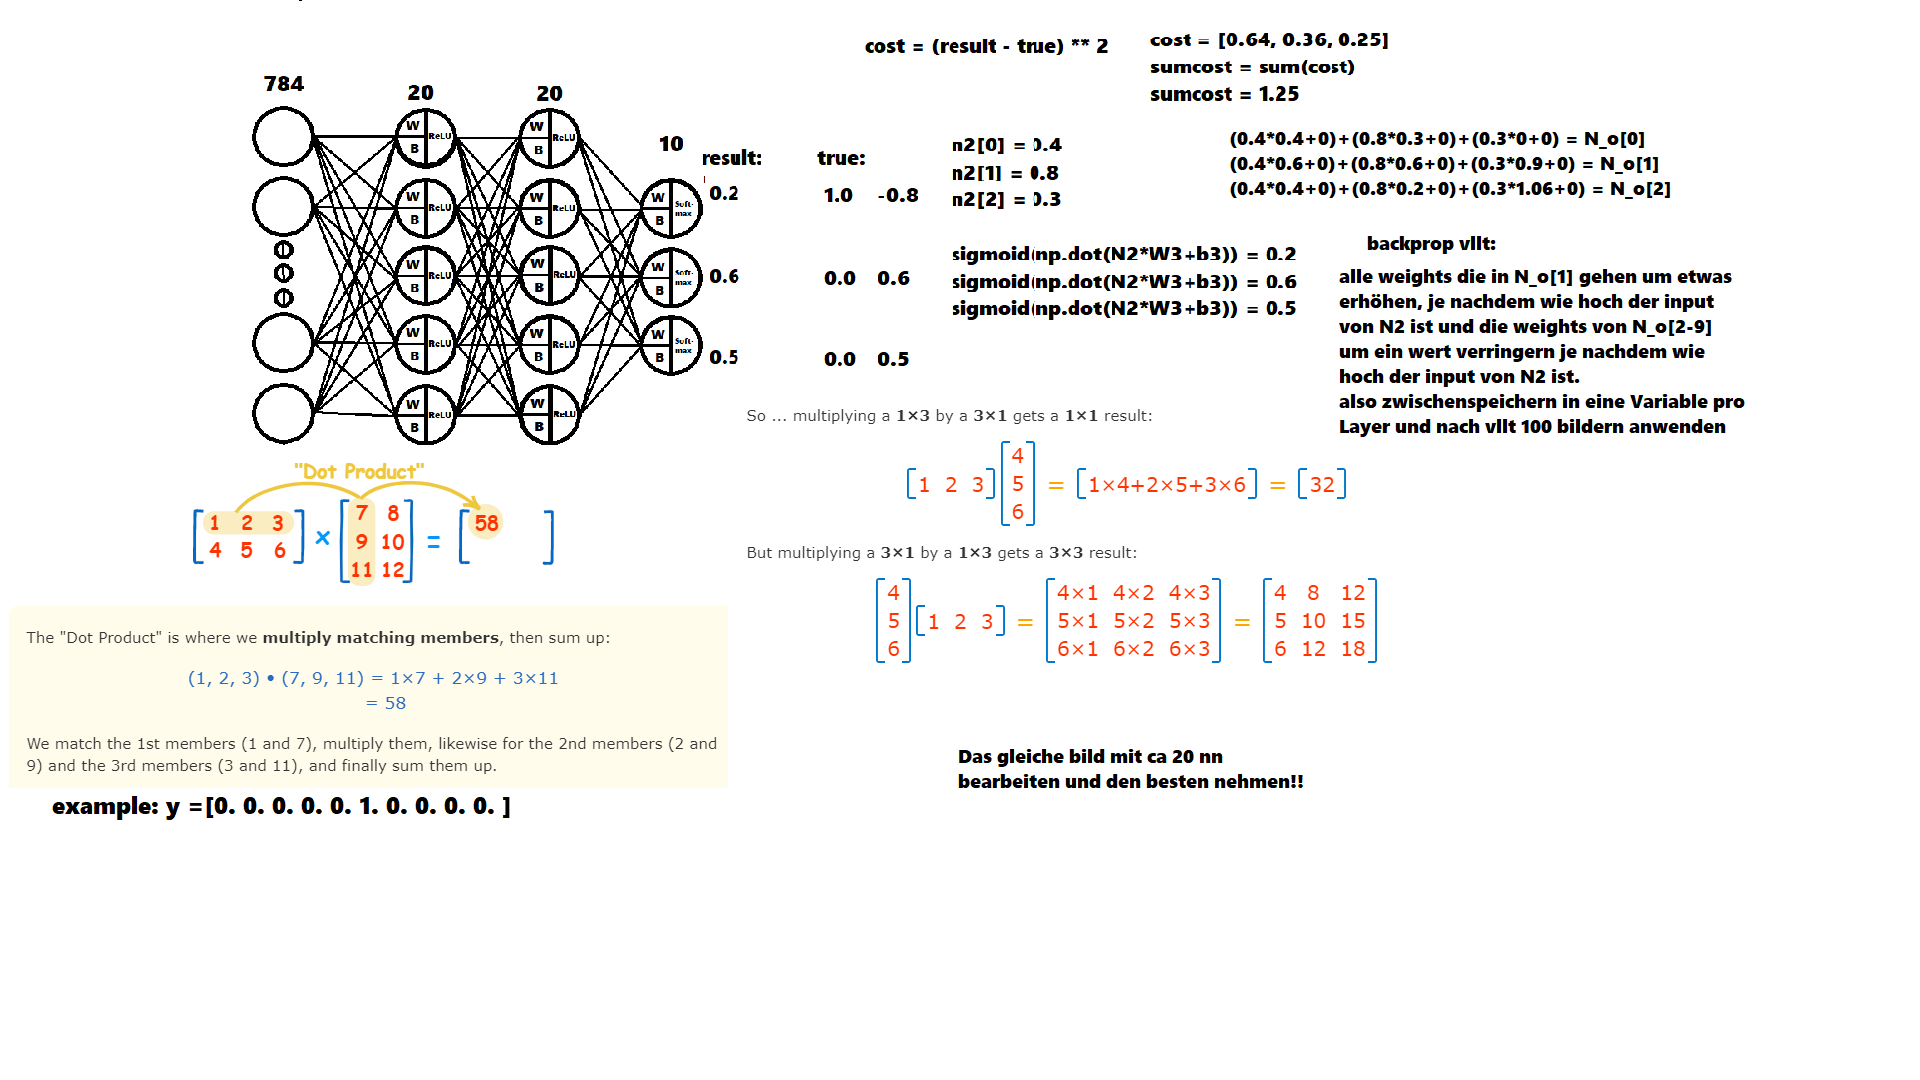
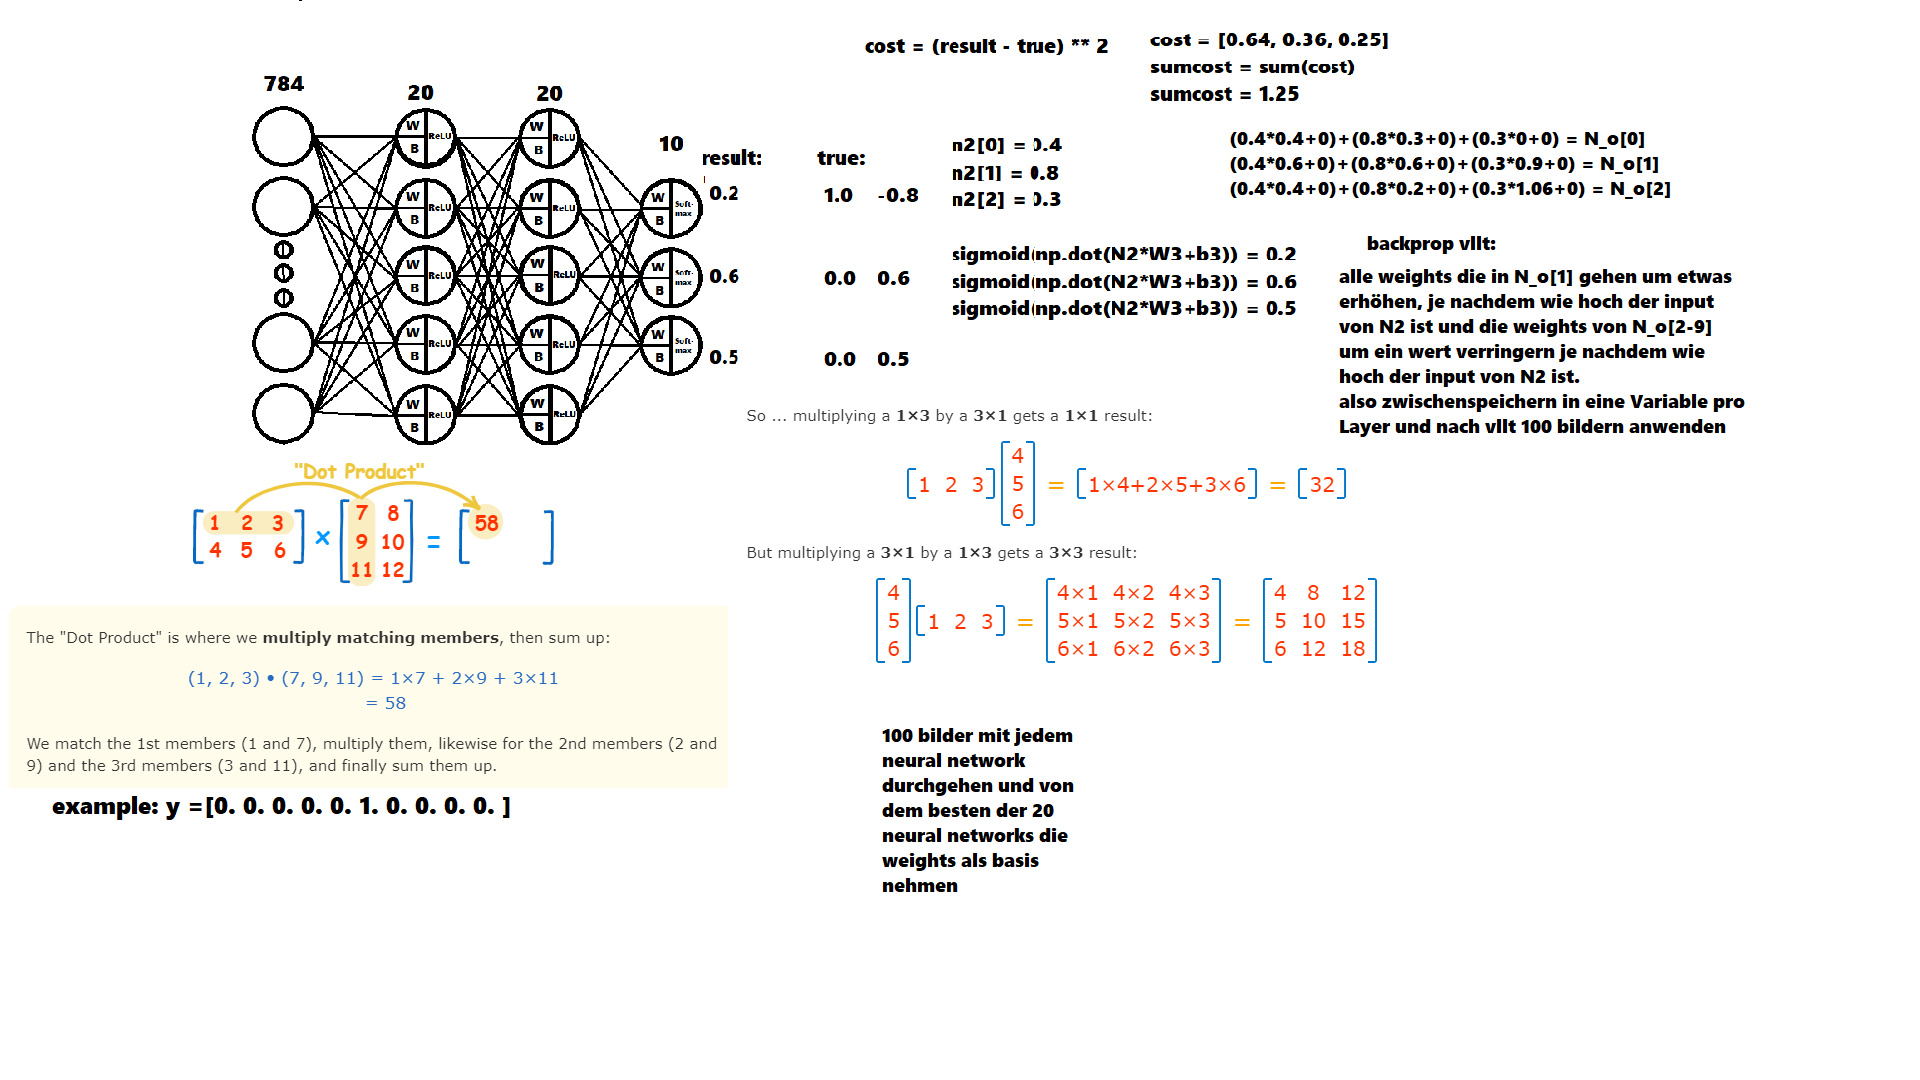
did some other technique

Changed region(s): [[0.4375, 0.6722, 0.6875, 0.825]]

diff --git a/owncode.py b/owncode.py
@@ -17,13 +17,16 @@ def sigmoid(x):
     s = 1/(1+np.exp(-x))
     return s
 
+
 def sigmoid_derivative(x):
     sd = sigmoid(x)*(1-sigmoid(x))
     return sd
 
+
 def softmax(x):
 	e = np.exp(x)
 	return e / e.sum()
+
 
 def ReLU(x):
     if x < 0:
@@ -38,6 +41,7 @@ runden = 1
 update = 0
 
 thisoff = 0
+thisoff_tmp = 0
 off = 10 #fehlerquote = max
 
 W1_best = W1
@@ -48,52 +52,62 @@ W1_test = W1
 W2_test = W2
 W3_test = W3
 
+
+#durchgänge
 for runde in range(runden):
-    xx = 0
-    for x in X[:10]:
+
+
+    #anzahl der neuronale netzwerke
+    for i in range(20):
+
+
+        #reset counter
+        xx = 0
+
         
-        for i in range(10):
-            #randomness based on how off the current of lvl is
-            #(test)
-            #every weight updaten
-            for f in range(len(W1)):
-                for q in range(len(W1[0])):
-                    W1_test[f][q] = 0 - W1_best[f][q] + np.random.random() * 0.5
-            for f in range(len(W2)):
-                for q in range(len(W2[0])):
-                    W2_test[f][q] = 0 - W2_best[f][q] + np.random.random() * 0.5
-            for f in range(len(W3)):
-                for q in range(len(W3[0])):
-                    W2_test[f][q] = 0 - W3_best[f][q] + np.random.random() * 0.5
+        #anzahl bilder
+        for x in X[:100]:
 
 
-            #forward prop
+            #forward prop:
             Neurons_h1 = sigmoid(np.dot(W1_test, X[xx]) + b1)
             Neurons_h2 = sigmoid(np.dot(W2_test, Neurons_h1) + b2)
             Neurons_o = sigmoid(np.dot(W3_test, Neurons_h2) + b3)
             output = softmax(Neurons_o)
-
-            print("output")
-            print(output)
-            print()
-
-            #backprop (not best cuz i dont want to do this real yet)
+            
 
             #calculate off
-            thisoff = sum( abs(output - y[xx]) )
+            thisoff_tmp = thisoff_tmp + sum( abs(output - y[xx]) )
+
+
+            #debug output
             print("output")
             print(output)
             print("y")
             print(y[xx])
 
 
-            #save every weight and bias if output is better then before
-            if thisoff < off:
-                off = thisoff
+            #count for X
+            xx += 1
 
-                W1_best
-                W2_best
-                W3_best
+
+        #backprop:
+
+
+        #sum all of the error rate
+        thisoff = sigmoid(thisoff_tmp)
+
+
+        #save every weight and bias if output is better then before
+        if thisoff < off:
+            
+
+            #update new error rate
+            off = thisoff
+
+            W1_best = W1_test
+            W2_best = W2_test
+            W3_best = W3_test
             
             '''
             #only if something is wrong
@@ -102,18 +116,8 @@ for runde in range(runden):
             b3_best = b3
             '''
 
-            #update weights on the best out of every few nn's
-            print("Start "+str(xx)+" update...")
-            
-            print("Updated! Current error: "+str(off))
-            
-
-        #count for X
-        xx += 1
-
 
 # Show results
-
 index = int(input("Enter a number (0 - 59999): "))
 img = X[index]
 plt.imshow(img.reshape(28, 28), cmap="Greys")
